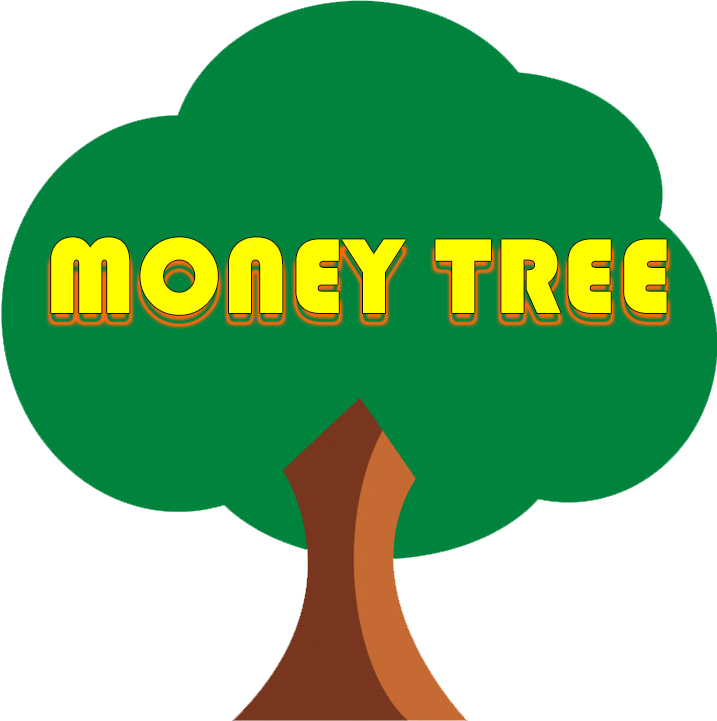
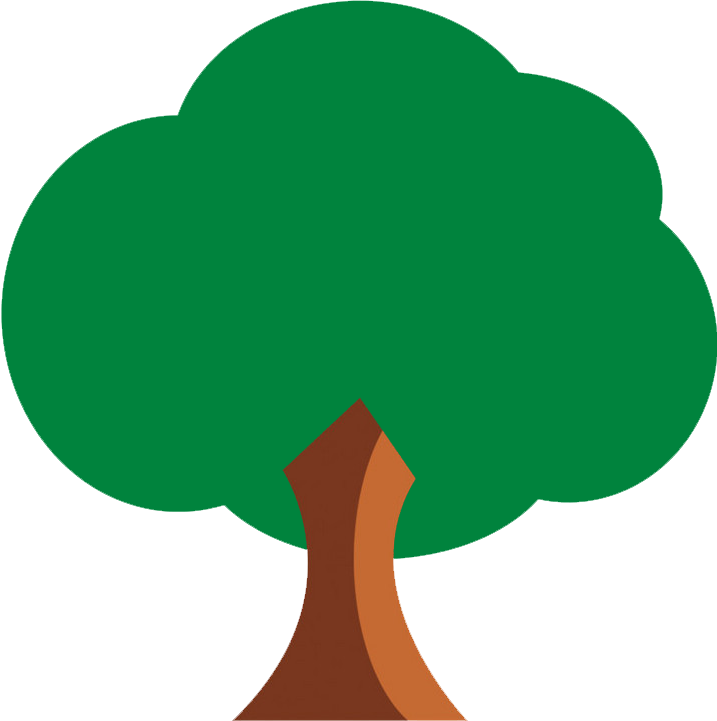
更名

Changed region(s): [[0.0614, 0.3051, 0.9512, 0.4577]]

diff --git a/index.html b/index.html
@@ -16,7 +16,7 @@
   <div id="game">
     <div id="sun"><span id="text-time">00</span>
     </div>
-    <img src="./images/TREE2.png" id="img" class="tree">
+    <img src="./images/tree.png" id="img" class="tree">
     <div id="btn-start">PLAY</div>
 
     <div id="record">
@@ -89,7 +89,7 @@
       $('#btn-start').fadeToggle()
       // 淡入圖片沒字版
       $('#img').fadeIn(2000, () => {
-        $('#img').attr('src', `./images/tree3.png`)
+        $('#img').attr('src', `./images/tree2.png`)
       })
       // 淡入記錄框
       $('#record').fadeIn()
@@ -164,7 +164,7 @@
           $('#record').fadeToggle()
           // 樹變有字版
           $('#img').fadeIn(2000, () => {
-            $('#img').attr('src', `./images/tree2.png`)
+            $('#img').attr('src', `./images/tree.png`)
           })
           // 開始按鈕出現
           $('#btn-start').fadeIn()
